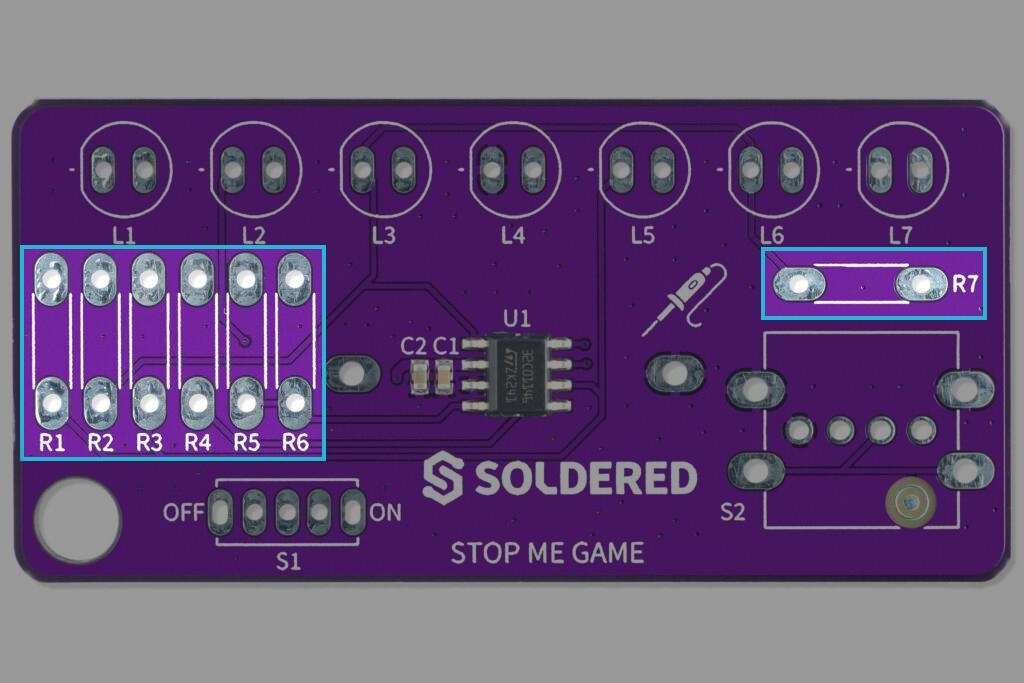
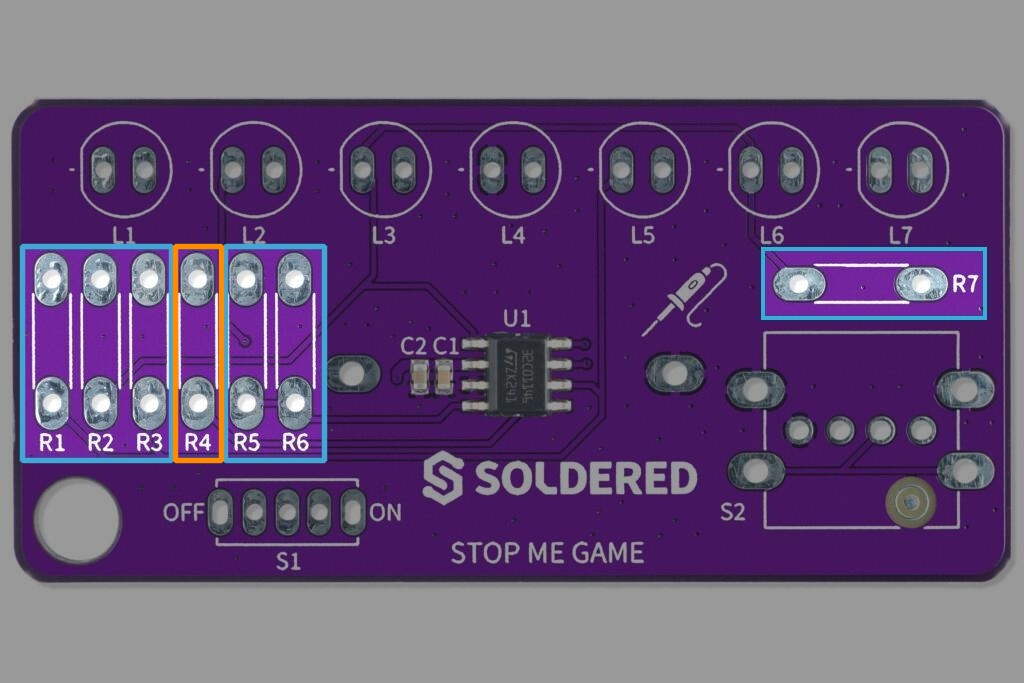
docs(stop-me-game): document the 4.7 kOhm resistor on R4
The v3.0.0 board uses a 4.7 kOhm resistor on R4 and 330 Ohm on the rest.
Update the assembly guide, the kit contents and the highlighted-pins picture.

Changed region(s): [[0.125, 0.3382, 0.3438, 0.7072], [0.0, 0.6457, 0.125, 0.6764], [0.0312, 0.3382, 0.0938, 0.369]]

diff --git a/soldered-documentation/docs/solder-kits/stop-me-game/assembly-guide.md b/soldered-documentation/docs/solder-kits/stop-me-game/assembly-guide.md
@@ -8,13 +8,20 @@ hide_title: False
 On this page, we will guide step by step on how to assemble this kit.
 
 ## Step 1: Solder the resistors to the PCB.
-Solder the **330 Ohm** resistors to the PCB on pins marked **R1** to **R6**. their orientation doesn't matter.
+Solder the **330 Ohm** resistors to the PCB on pins marked **R1** to **R3** and **R5** to **R7**. Solder the **4.7 kOhm** resistor on pins marked **R4**, the one for the green LED. Their orientation doesn't matter.
 
-Find the resistors with markings as shown below:
+Find the 330 Ohm resistors with markings as shown below:
 
-<CenteredImage src="/img/stop-me-game/330ohm-resistor.jpg" alt="Markings for the 330 Ohm resistor" caption="Markings for the 330 Ohm resistor" width="600px"/>
+<CenteredImage src="/img/stop-me-game/330ohm-resistor.jpg" alt="Markings for the 330 Ohm resistor" caption="Markings for the 330 Ohm resistor (orange, orange, brown, gold)" width="600px"/>
 
-<CenteredImage src="/img/stop-me-game/resistors_highlighted.jpg" alt="Highlighted pins for resistors R1 to R6" caption="Highlighted pins for resistors R1 to R7" width="600px"/>
+The **4.7 kOhm** resistor has different markings (yellow, violet, red, gold):
+
+<CenteredImage src="/img/stop-me-game/4k7ohm-resistor.jpg" alt="Markings for the 4.7 kOhm resistor" caption="Markings for the 4.7 kOhm resistor (yellow, violet, red, gold)" width="600px"/>
+
+<CenteredImage src="/img/stop-me-game/resistors_highlighted.jpg" alt="Highlighted pins for resistors R1 to R7, with R4 marked in orange" caption="Highlighted pins for resistors R1 to R7. R4 (orange) is the 4.7 kOhm resistor, all the others (blue) are 330 Ohm" width="600px"/>
+
+The video below shows how to solder a resistor. Solder the 4.7 kOhm resistor on **R4** in exactly the same way.
+
 <ReactPlayer  src='../../img/stop-me-game/330-r-video.mp4' height='auto' width="600px" muted='true' autoPlay='true' loop='true' style={{ margin: '0 auto', display: 'block' }} />
 ---
 

diff --git a/soldered-documentation/docs/solder-kits/stop-me-game/overview.md b/soldered-documentation/docs/solder-kits/stop-me-game/overview.md
@@ -24,7 +24,8 @@ The goal of the game is to press the button as soon as the green LED turns on. W
 - **7 LEDs** (6 red and 1 green)
 - **Pushbutton**
 - **Switch**
-- **7 330-ohm resistors**
+- **6 330-ohm resistors** (R1 to R3 and R5 to R7)
+- **1 4.7 kOhm resistor** (R4, for the green LED)
 - **CR2032 battery**
 - **CR2032 battery holder**
 - **Keychain holder**
